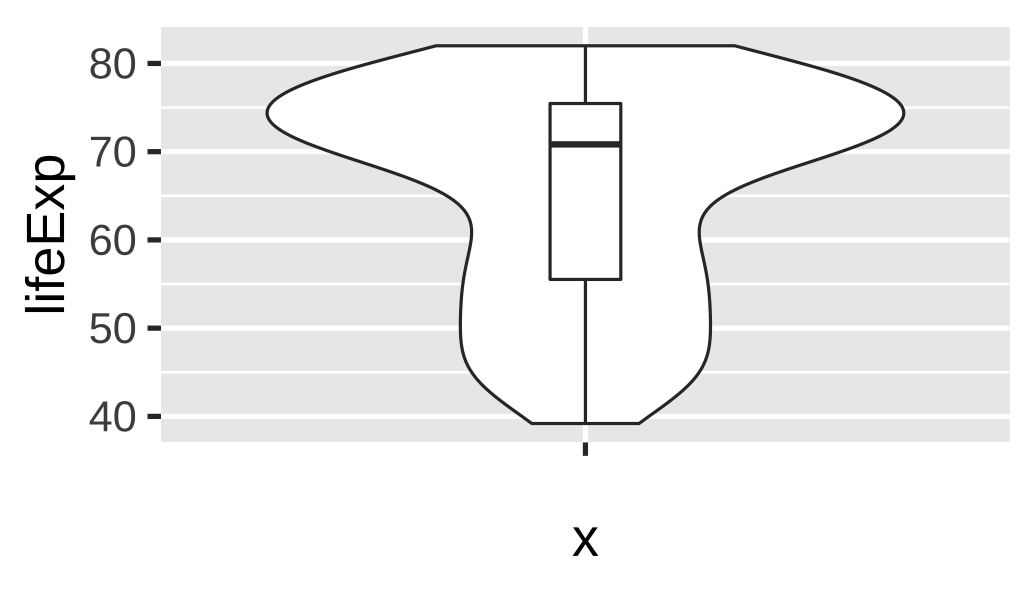
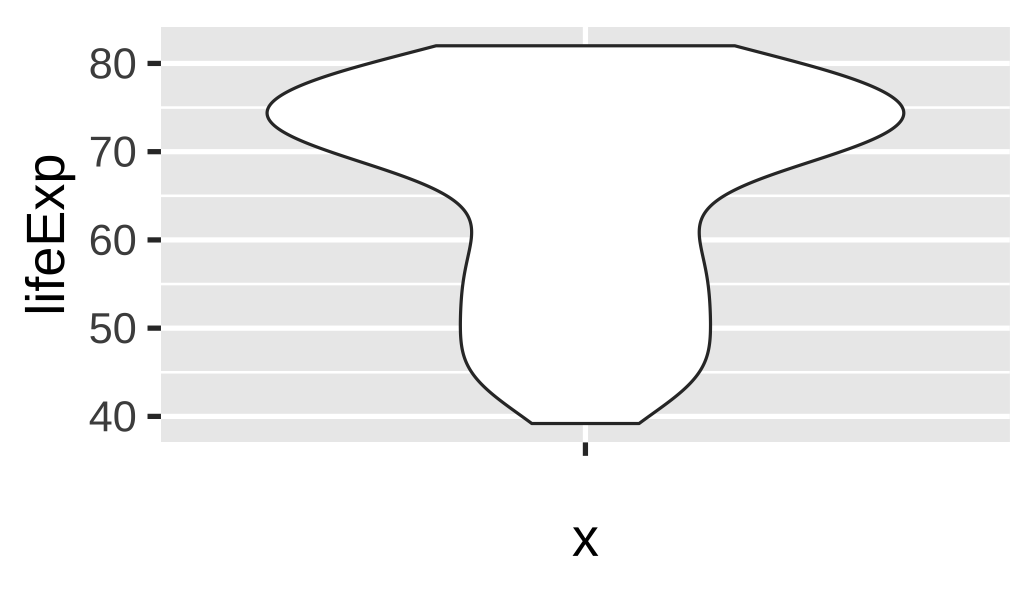
07-slides

Changed region(s): [[0.5251, 0.0909, 0.6178, 0.697]]

diff --git a/content/slides/07-slides.html b/content/slides/07-slides.html
@@ -124,7 +124,7 @@ Please don't hesitate to provide feedback on how the course progresses!
 --
 
 **Several people requested guidance on installing/working locally**
-- I will post some basic guidance on this on the site
+- I will post some basic guidance on the course site
 - Come to office hours if you want help installing R+RStudio!
 
 --
@@ -218,7 +218,7 @@ our_companies
 
 ```
 ## # A tibble: 22 × 2
-##    company                             n
+##    name                                n
 ##    &lt;chr&gt;                           &lt;dbl&gt;
 ##  1 Allbirds Inc                        1
 ##  2 Alphabet Inc. Class A               1
@@ -237,14 +237,14 @@ our_companies
 
 # Mini Project 1: logistics
 
-Work in groups of 3 (assigned on canvas)
+Work in groups of 3 (posted on canvas)
 
 Write report in R Markdown that summarizes your work, presents visualizations, and discusses takeaways
 
 Do not use any packages outside base R and the tidyverse
 
 No TA help for Part 3!
-
+- If you try but still need help, come to my office hours
 
 ---
 class: inverse, center, middle
@@ -276,7 +276,7 @@ name: proportions
 # Pros and cons of different approaches
 
 .small.center[
-               | &amp;nbsp; Pie chart &amp;nbsp; | &amp;nbsp; Stacked bars &amp;nbsp; | Side-by-side bars
+               | Pie chart | Stacked bars | Side-by-side bars
 :----------    | :-------: | :----------: | :---------------:
 Allows easy comparison of relative proportions   | ✖ | ✖ | ✔ 
 ]
@@ -286,7 +286,7 @@ Allows easy comparison of relative proportions   | ✖ | ✖ | ✔
 # Pros and cons of different approaches
 
 .small.center[
-               | &amp;nbsp; Pie chart &amp;nbsp; | &amp;nbsp; Stacked bars &amp;nbsp; | Side-by-side bars
+               | Pie chart | Stacked bars | Side-by-side bars
 :----------    | :-------: | :----------: | :---------------:
 Allows easy comparison of relative proportions   | ✖ | ✖ | ✔ 
 Shows data as proportions of a whole             | ✔ | ✔ | ✖
@@ -297,7 +297,7 @@ Shows data as proportions of a whole             | ✔ | ✔ | ✖
 # Pros and cons of different approaches
 
 .small.center[
-               | &amp;nbsp; Pie chart &amp;nbsp; | &amp;nbsp; Stacked bars &amp;nbsp; | Side-by-side bars
+               | Pie chart | Stacked bars | Side-by-side bars
 :----------    | :-------: | :----------: | :---------------:
 Allows easy comparison of relative proportions   | ✖ | ✖ | ✔ 
 Shows data as proportions of a whole             | ✔ | ✔ | ✖
@@ -309,7 +309,7 @@ Emphasizes simple fractions (1/2, 1/3, ...) | ✔ | ✖ | ✖
 # Pros and cons of different approaches
 
 .small.center[
-               | &amp;nbsp; Pie chart &amp;nbsp; | &amp;nbsp; Stacked bars &amp;nbsp; | Side-by-side bars
+               | Pie chart | Stacked bars | Side-by-side bars
 :----------    | :-------: | :----------: | :---------------:
 Allows easy comparison of relative proportions   | ✖ | ✖ | ✔ 
 Shows data as proportions of a whole             | ✔ | ✔ | ✖
@@ -323,7 +323,7 @@ Visually appealing for small datasets | ✔ | ✖ | ✔
 # Pros and cons of different approaches
 
 .small.center[
-               | &amp;nbsp; Pie chart &amp;nbsp; | &amp;nbsp; Stacked bars &amp;nbsp; | Side-by-side bars
+               | Pie chart | Stacked bars | Side-by-side bars
 :----------    | :-------: | :----------: | :---------------:
 Allows easy comparison of relative proportions   | ✖ | ✖ | ✔ 
 Shows data as proportions of a whole             | ✔ | ✔ | ✖
@@ -337,7 +337,7 @@ Works well for a large number of subsets | ✖ | ✖ | ✔
 # Pros and cons of different approaches
 
 .small.center[
-               | &amp;nbsp; Pie chart &amp;nbsp; | &amp;nbsp; Stacked bars &amp;nbsp; | Side-by-side bars
+               | Pie chart | Stacked bars | Side-by-side bars
 :----------    | :-------: | :----------: | :---------------:
 Allows easy comparison of relative proportions   | ✖ | ✖ | ✔ 
 Shows data as proportions of a whole             | ✔ | ✔ | ✖
@@ -504,7 +504,7 @@ No official rule for what makes a good bin width
 .pull-right-3[
 .center.small[(One type of) just right:]
 
-.center.tiny[`geom_histogram(binwidth = 2)`]
+.center.tiny[`geom_histogram(binwidth = 5)`]
   
 &lt;img src="07-slides_files/figure-html/hist-just-right-1.png" width="100%" style="display: block; margin: auto;" /&gt;
 ]
@@ -721,9 +721,7 @@ Use `theme()` to customize the plot for this geom
   
 # Violin plots
   
-.box-inv-4[Mirror density plot and flip]
-
-.box-4.small[Often helpful to overlay other things on it]
+Mirror density plot and flip
 
 .left-code[
 
@@ -731,8 +729,7 @@ Use `theme()` to customize the plot for this geom
 ggplot(gapminder_2002,
        aes(x = "", 
 *          y = lifeExp)) +
-* geom_violin() +
-  geom_boxplot(width = 0.1)
+* geom_violin()
 ```
 ]
 
@@ -742,12 +739,35 @@ ggplot(gapminder_2002,
 
 ---
   
+# Overalying geometries
+
+We can overlay multiple geometries to provide more information
+
+.left-code[
+
+```r
+ggplot(gapminder_2002,
+       aes(x = "", 
+           y = lifeExp)) +
+  geom_violin() +
+* geom_boxplot(width = 0.1)
+```
+]
+
+.right-plot[
+  ![](07-slides_files/figure-html/basic-violin-overlay-1.png)
+]
+
+---
+  
 # Uncertainty across multiple variables
   
-Visualize the distribution of a single variable across groups
+
+
+How could we visualize the distribution of a single variable across groups?
 
 --
-  
+
 Add a `fill` aesthetic or use faceting!
 
 ---
@@ -763,7 +783,7 @@ This is bad and really hard to read though
 ```r
 ggplot(gapminder_2002,
        aes(x = lifeExp,
-           fill = continent)) +
+*          fill = continent)) +
   geom_histogram(binwidth = 5, 
                  color = "white", 
                  boundary = 50)
@@ -789,8 +809,8 @@ ggplot(gapminder_2002,
   geom_histogram(binwidth = 5, 
                  color = "white", 
                  boundary = 50) +
-  guides(fill = "none") +
-  facet_wrap(vars(continent))
+* guides(fill = "none") +
+* facet_wrap(vars(continent))
 ```
 ]
 
@@ -799,13 +819,13 @@ ggplot(gapminder_2002,
 ]
 
 ---
-  
+
 # Pyramid histograms
-  
-.left-code.small-code[
+
+.left-code[
 
 ```r
-gapminder_intervals &lt;- gapminder %&gt;% 
+gapminder %&gt;% 
   filter(year == 2002) %&gt;% 
   mutate(africa = 
            ifelse(continent == "Africa", 
@@ -815,21 +835,22 @@ gapminder_intervals &lt;- gapminder %&gt;%
                cut(lifeExp, 
                    breaks = seq(30, 90, by = 5))) %&gt;% 
       group_by(africa, age_buckets) %&gt;% 
-      summarize(total = n())
-    ggplot(gapminder_intervals, 
-           aes(y = age_buckets,
-               x = ifelse(africa == "Africa", 
-                          total, -total),
-               fill = africa)) +
-      geom_col(width = 1, color = "white")
+      summarize(total = n()) %&gt;% 
+ggplot(aes(y = age_buckets,
+           x = ifelse(africa == "Africa", 
+                      total, -total),
+           fill = africa)) +
+  geom_col(width = 1, color = "white") + 
+  theme(legend.position = "bottom")
 ```
+]
 
 .right-plot[
   ![](07-slides_files/figure-html/gapminder-pyramid-1.png)
 ]
 
 ???
-  
+
 There's no way to use `geom_histogram()` to do this, but we can fake it with `geom_col()`
 
 ---
@@ -839,12 +860,16 @@ There's no way to use `geom_histogram()` to do this, but we can fake it with `ge
 .left-code[
 
 ```r
-ggplot(filter(gapminder_2002, 
-              continent != "Oceania"),
-       aes(x = lifeExp,
-           fill = continent)) +
-  geom_density(alpha = 0.5)
+gapminder_2002 %&gt;% 
+  filter(continent != "Oceania") %&gt;% 
+  ggplot(aes(x = lifeExp,
+             fill = continent)) +
+* geom_density(alpha = 0.5)
 ```
+
+But be careful, these can get confusing quickly
+
+With many groups, better to space them out using ridgeline plots
 ]
 
 .right-plot[
@@ -853,20 +878,26 @@ ggplot(filter(gapminder_2002,
 
 ---
 
-# Multiple densities: Ridge plots
+# Multiple densities: Ridgeline plots
 
 .left-code[
 
 ```r
-library(ggridges)
+*library(ggridges)
 
 ggplot(filter(gapminder_2002, 
               continent != "Oceania"),
        aes(x = lifeExp,
            fill = continent,
            y = continent)) +
-  geom_density_ridges()
+  guides(fill = "none") +
+  labs(y = NULL) +
+* geom_density_ridges()
 ```
+
+There is no explicit scale for the densities anymore (it is shared with y)
+
+With many densities, use a single fill color to prevent distraction
 ]
 
 .right-plot[
@@ -875,20 +906,21 @@ ggplot(filter(gapminder_2002,
 
 ---
 
-# Multiple geoms: `gghalves`
+# Multiple geoms: gghalves
 
 .left-code[
 
 ```r
-library(gghalves)
+*library(gghalves)
 
 ggplot(filter(gapminder_2002, 
               continent != "Oceania"),
        aes(y = lifeExp,
            x = continent,
            color = continent)) +
-  geom_half_boxplot(side = "l") +
-  geom_half_point(side = "r") 
+* geom_half_boxplot(side = "l") +
+* geom_half_point(side = "r") +
+  guides(color = "none")
 ```
 ]
 
@@ -903,19 +935,20 @@ ggplot(filter(gapminder_2002,
 .left-code[
 
 ```r
-library(gghalves)
+*library(gghalves)
 
 ggplot(filter(gapminder_2002, 
               continent != "Oceania"),
        aes(y = lifeExp,
            x = continent,
            color = continent)) +
-  geom_half_point(side = "l", size = 0.3) + 
-  geom_half_boxplot(side = "l", width = 0.5, 
-                    alpha = 0.3, nudge = 0.1) +
-  geom_half_violin(aes(fill = continent), 
-                   side = "r") +
+* geom_half_point(side = "l", size = 0.3) +
+* geom_half_boxplot(side = "l", width = 0.5,
+*                   alpha = 0.3, nudge = 0.1) +
+* geom_half_violin(aes(fill = continent),
+*                  side = "r") +
   guides(fill = "none", color = "none") +
+  labs(y = NULL) +
 * coord_flip()
 ```
 ]
@@ -923,6 +956,30 @@ ggplot(filter(gapminder_2002,
 .right-plot[
 ![](07-slides_files/figure-html/raincloud-1.png)
 ]
+
+---
+
+# Uncertainty in models and simulations
+
+We have already seen at least one example: `geom_smooth()`
+
+We will discuss these more next week
+
+Until then, here are a few real-world examples
+
+---
+
+# The needle
+
+.center[
+&lt;figure&gt;
+  &lt;img src="img/07/needle.gif" alt="2016 election needle" title="2016 election needle" width="65%"&gt;
+&lt;/figure&gt;
+]
+
+???
+
+Via https://www.vis4.net/blog/2016/11/jittery-gauges-election-forecast/
 
 ---
 
